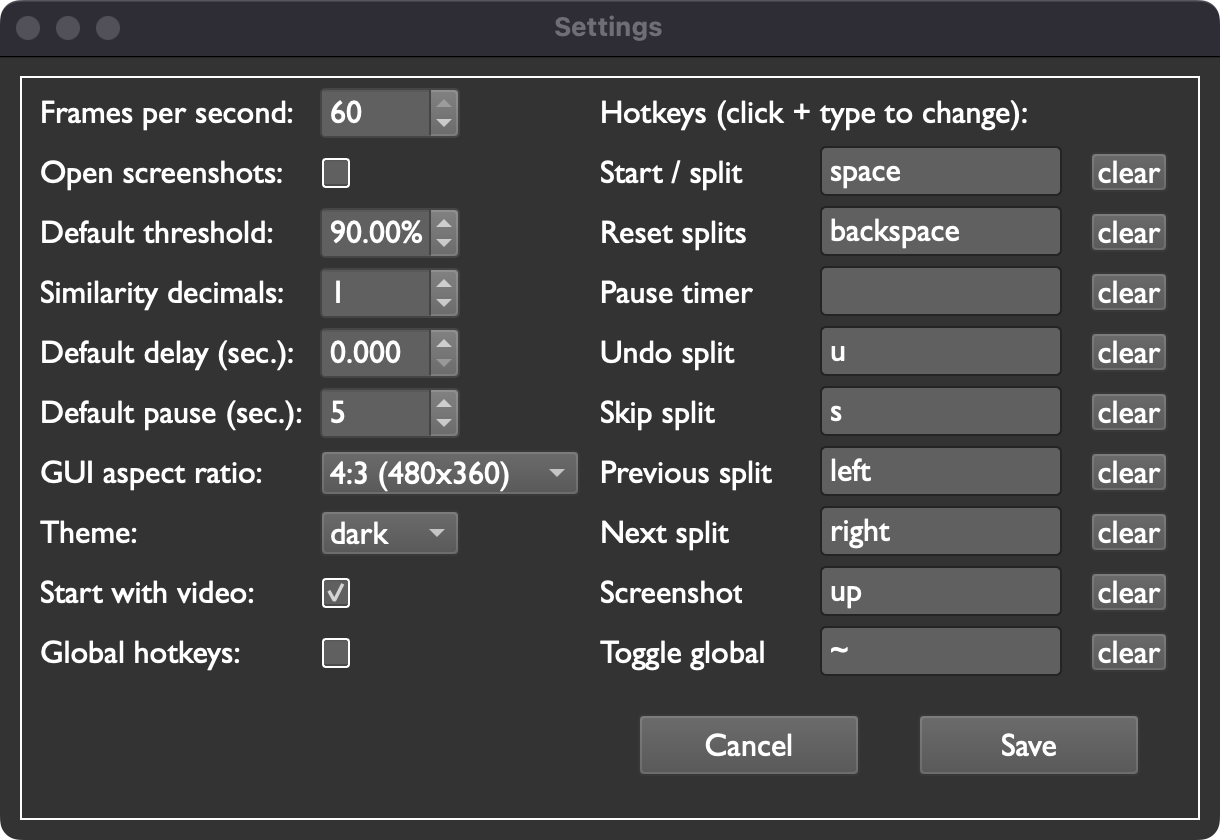
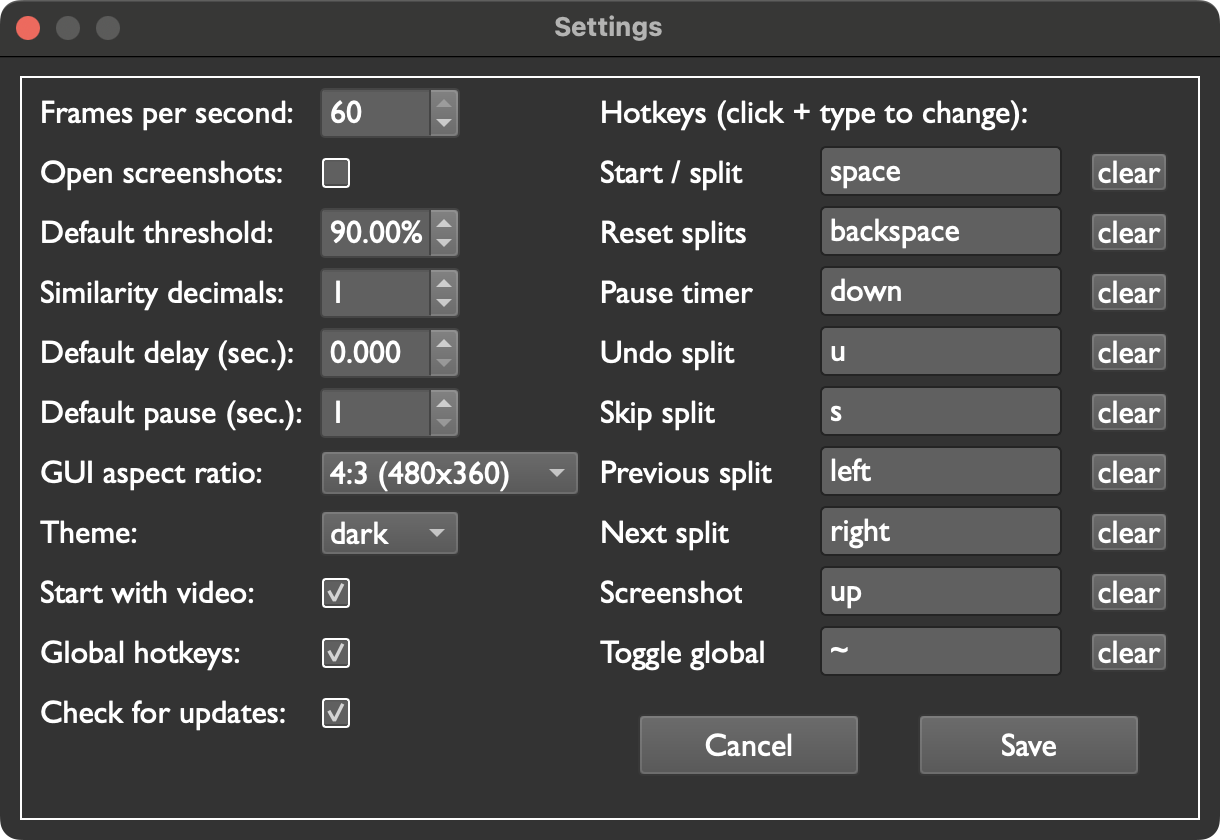
Update 04-settings.md
Added an instruction for the new Checking for Updates option.
Added a short explanation on how to open the settings menu.

diff --git a/04-settings.md b/04-settings.md
@@ -9,6 +9,11 @@ nav_order: 5
 
 # Settings
 
+To open the settings menu, go to the "Pilgrim Autosplitter" context menu and click `Settings`.
+
+{: .tip }
+You can also open the settings menu by pressing `ctrl+.` (on Windows) or `cmd+.` (on Mac).
+
 This is the settings menu:
 
 <figure>
@@ -96,6 +101,14 @@ If disabled, hotkeys will only work when Pilgrim Autosplitter is in focus. (For 
 
 Default: `enabled`
 
+## Check for updates
+
+When enabled, Pilgrim Autosplitter will automatically check if a new version has been released on launch.
+
+Upgrading to a new version doesn't erase your settings; they are saved by the system.
+
+Default: `enabled`
+
 # Hotkeys
 
 Pilgrim Autosplitter has 9 optional hotkeys.
@@ -107,7 +120,7 @@ The same key can be used for more than one hotkey. For instance, you could bind 
 {: .warning }
 Using the same key for hotkeys that do opposite things (e.g. `skip` and `undo`) may result in unexpected behavior. Use common sense!
 
-## Start / split
+## Split
 Go to the next split. This is the key Pilgrim Autosplitter presses when a split image is matched.
 
 ## Reset splits
